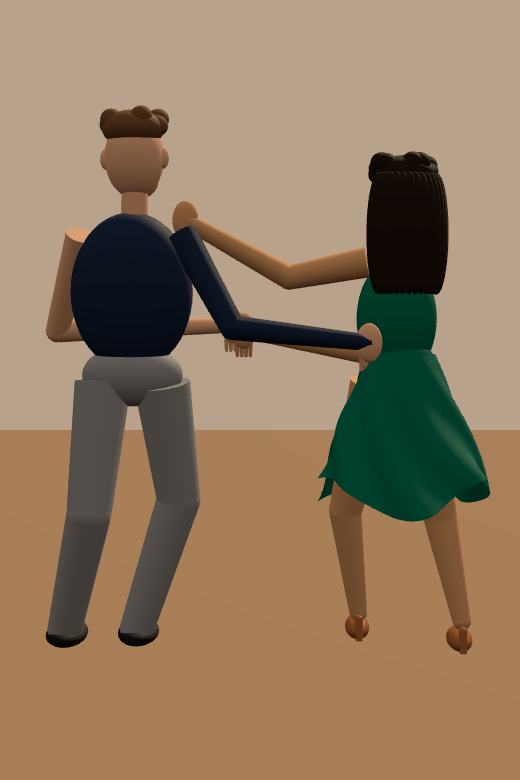
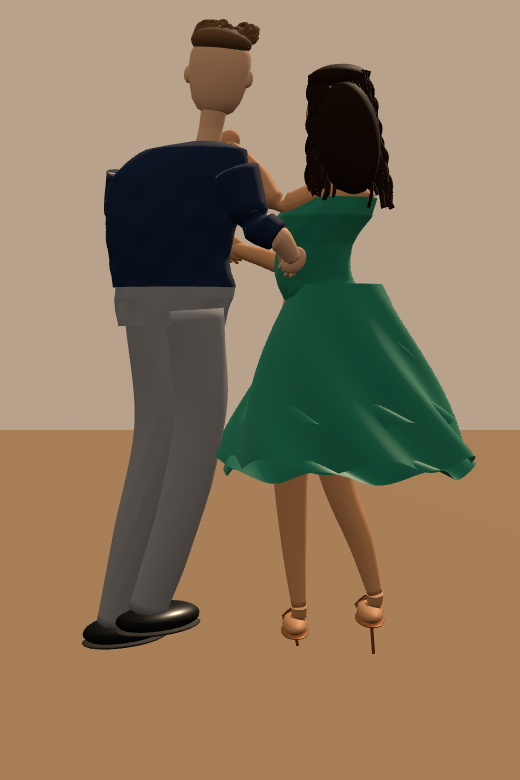
feat: refine salsa anatomy, clothing, hair and footwear with fixed-camera comparison

diff --git a/experiments/salsa-human-models/model.js b/experiments/salsa-human-models/model.js
@@ -1,41 +1,102 @@
 import * as THREE from '../../vendor/three.module.js';
-export const landmarks = {womanHead:[-.48,1.55,0],manHead:[.42,1.7,0],joinedHands:[.08,1.12,.36]};
-export const palette = {dress:0x00624e,shirt:0x18253e,trousers:0x85858a};
-// All surfaces are generated geometry; the reference is never mapped onto the models.
+import {referenceCamera} from './camera.js';
+export const palette={dress:0x00624e,shirt:0x18253e,trousers:0x85858a};
+const camera=new THREE.PerspectiveCamera(referenceCamera.fov,referenceCamera.aspect,referenceCamera.near,referenceCamera.far);
+camera.position.set(...referenceCamera.position);camera.lookAt(...referenceCamera.target);camera.updateMatrixWorld();
+// Measured reference landmarks set geometry placement, never camera or image pixels.
+function point(x,y,z=0){const ray=new THREE.Vector3(x*2-1,1-y*2,.5).unproject(camera).sub(camera.position).normalize();return camera.position.clone().addScaledVector(ray,(z-camera.position.z)/ray.z);}
+export const landmarks={womanHead:point(.347,.143).toArray(),manHead:point(.579,.096).toArray(),joinedHands:point(.576,.297,.27).toArray()};
 export function createCouple(){
- const root=new THREE.Group();root.name='Salsa couple';
- const material=(color,roughness=.65)=>new THREE.MeshStandardMaterial({color,roughness});
- const emerald=material(palette.dress,.4),navy=material(palette.shirt),gray=material(palette.trousers),black=material(0x161516),bronze=material(0x995b32,.3);
- function ellipsoid(name,p,s,m,parent=root){const o=new THREE.Mesh(new THREE.SphereGeometry(1,32,24),m);o.name=name;o.position.set(...p);o.scale.set(...s);o.castShadow=true;o.receiveShadow=true;parent.add(o);return o;}
- function limb(name,a,b,r1,r2,m){const start=new THREE.Vector3(...a),end=new THREE.Vector3(...b);const o=new THREE.Mesh(new THREE.CylinderGeometry(r2,r1,start.distanceTo(end),20),m);o.name=name;o.position.copy(start).add(end).multiplyScalar(.5);o.quaternion.setFromUnitVectors(new THREE.Vector3(0,1,0),end.sub(start).normalize());o.castShadow=true;root.add(o);ellipsoid(name+' joint',b,[r2,r2,r2],m);return o;}
- function hand(name,p,skin){ellipsoid(name,p,[.044,.065,.026],skin);for(let i=0;i<4;i++)limb(name+' finger '+i,[p[0]-.025+i*.016,p[1]-.035,p[2]+.01],[p[0]-.025+i*.016,p[1]-.09,p[2]+.025],.009,.007,skin);}
- function head(name,p,skin,hair,female){
-  const g=new THREE.Group();g.position.set(...p);root.add(g);g.rotation.y=female?.18:-.16;
-  ellipsoid(name+' face',[0,0,0],[.10,.137,.092],skin,g);
-  ellipsoid(name+' jaw',[0,-.075,.025],[.075,.063,.066],skin,g);
-  ellipsoid(name+' nose',[0,-.015,.094],[.018,.032,.023],skin,g);
-  for(const x of [-.098,.098])ellipsoid(name+' ear',[x,-.005,0],[.02,.035,.019],skin,g);
-  for(const x of [-.04,.04]){ellipsoid(name+' eye white',[x,.025,.081],[.026,.011,.012],material(0xeee2d3),g);ellipsoid(name+' iris',[x,.025,.091],[.011,.010,.005],material(0x39271b),g);ellipsoid(name+' pupil',[x,.025,.095],[.005,.006,.003],black,g);ellipsoid(name+' brow',[x,.049,.081],[.03,.006,.007],hair,g);}
-  ellipsoid(name+' lips',[0,-.062,.085],[.035,.009,.009],material(female?0x9b4243:0x95625a),g);
-  ellipsoid(name+' hair cap',[0,.092,-.015],[.105,.062,.089],hair,g);
-  for(let i=0;i<(female?18:12);i++){const a=i*2.399;ellipsoid(name+' hair lock',[Math.cos(a)*.082,.11+Math.sin(i*3)*.018,Math.sin(a)*.065],[.037,.035,.035],hair,g);}
-  if(female)for(let i=0;i<16;i++){const a=i/15*Math.PI;ellipsoid(name+' long hair',[Math.cos(a)*.10,-.11,-.05-Math.sin(a)*.055],[.039,.20,.04],hair,g);}
+ const root=new THREE.Group();root.name='Detailed static salsa couple';
+ const mat=(color,roughness=.65,extra={})=>new THREE.MeshPhysicalMaterial({color,roughness,...extra});
+ const ws=mat(0xc58c60,.55),ms=mat(0xd0a080,.56),emerald=mat(palette.dress,.43,{sheen:.8,sheenColor:new THREE.Color(0x5caa8a)}),navy=mat(palette.shirt,.76),gray=mat(palette.trousers,.82),black=mat(0x121313,.3),bronze=mat(0x9d5c30,.32,{metalness:.55}),hair=mat(0x20140d,.6),maleHair=mat(0x63462e,.6);
+ const vec=p=>p.isVector3?p.clone():new THREE.Vector3(...p);
+ function mesh(name,geometry,material,parent=root){const o=new THREE.Mesh(geometry,material);o.name=name;o.castShadow=true;o.receiveShadow=true;parent.add(o);return o;}
+ function oval(name,p,s,m,parent=root){const o=mesh(name,new THREE.SphereGeometry(1,24,16),m,parent);o.position.copy(vec(p));o.scale.set(...s);return o;}
+ function curve(name,points,r,m,parent=root){return mesh(name,new THREE.TubeGeometry(new THREE.CatmullRomCurve3(points.map(vec)),Math.max(12,points.length*5),r,6,false),m,parent);}
+ // Continuous elliptical rings replace intersecting cylinder/sphere limb joints.
+ function sweep(name,knots,m,depth=1,sides=28){
+  const path=new THREE.CatmullRomCurve3(knots.map(k=>vec(k[0]))),rows=(knots.length-1)*10,frames=path.computeFrenetFrames((knots.length-1)*10,false),vertices=[],indices=[];
+  for(let j=0;j<=rows;j++){const t=j/rows,c=path.getPoint(t);const u=t*(knots.length-1),i=Math.min(knots.length-2,Math.floor(u)),f=u-i,requestedRadius=THREE.MathUtils.lerp(knots[i][1],knots[i+1][1],f),before=Math.max(0,t-1/rows),after=Math.min(1,t+1/rows),turn=path.getTangent(before).angleTo(path.getTangent(after)),bendLimit=turn>1e-5?.5*path.getPoint(before).distanceTo(path.getPoint(after))/turn:Infinity,r=Math.min(requestedRadius,bendLimit);
+   for(let k=0;k<=sides;k++){const a=k/sides*Math.PI*2,fold=name.includes('trouser')?1+.018*Math.cos(a*8+t*22):1;const v=frames.normals[j].clone().multiplyScalar(Math.cos(a)*r*fold).addScaledVector(frames.binormals[j],-Math.sin(a)*r*depth).add(c);vertices.push(v.x,v.y,v.z);}}
+  for(let j=0;j<rows;j++)for(let k=0;k<sides;k++){const i=j*(sides+1)+k;indices.push(i,i+sides+1,i+1,i+1,i+sides+1,i+sides+2);}
+  // End caps are fans, not separate spheres with coplanar joint seams.
+  for(const j of [0,rows]){const c=path.getPoint(j/rows),center=vertices.length/3;vertices.push(c.x,c.y,c.z);for(let k=0;k<sides;k++){const i=j*(sides+1)+k;if(j===0)indices.push(center,i,i+1);else indices.push(center,i+1,i);}}
+  const g=new THREE.BufferGeometry();g.setAttribute('position',new THREE.Float32BufferAttribute(vertices,3));g.setIndex(indices);g.computeVertexNormals();const o=mesh(name,g,m);o.userData={surface:'sweep',rows,sides};return o;
  }
- const ws=material(0xc59065),ms=material(0xd3a080);
- head('Woman',landmarks.womanHead,ws,material(0x211710),true);head('Man',landmarks.manHead,ms,material(0x68472d),false);
- for(const [x,y,skin] of [[-.48,1.39,ws],[.42,1.54,ms]])limb('Neck',[x,y-.04,0],[x,y+.07,0],.045,.044,skin);
- ellipsoid('Navy shirt',[.43,1.25,-.015],[.205,.265,.115],navy);ellipsoid('Emerald bodice',[-.46,1.16,0],[.135,.205,.103],emerald);
- ellipsoid('Woman waist',[-.47,1.02,0],[.115,.09,.095],emerald);ellipsoid('Man hips',[.43,.97,0],[.17,.105,.10],gray);
- // A rippled asymmetric skirt retains a visible slit on the reference-facing side.
- const vertices=[],indices=[],rows=24,cols=80;
- for(let j=0;j<=rows;j++)for(let i=0;i<=cols;i++){const t=j/rows,a=.35+i/cols*(Math.PI*2-.7),r=.12+t*.18+Math.sin(a*8+t*9)*.018*t;vertices.push(-.47+Math.cos(a)*r,1.04-t*(.46+.06*Math.sin(a*3)),Math.sin(a)*r);}
- for(let j=0;j<rows;j++)for(let i=0;i<cols;i++){const k=j*(cols+1)+i;indices.push(k,k+cols+1,k+1,k+1,k+cols+1,k+cols+2);}
- const geo=new THREE.BufferGeometry();geo.setAttribute('position',new THREE.Float32BufferAttribute(vertices,3));geo.setIndex(indices);geo.computeVertexNormals();const dress=emerald.clone();dress.side=THREE.DoubleSide;const skirt=new THREE.Mesh(geo,dress);skirt.name='Rippled slit skirt';root.add(skirt);
- for(const [name,hip,knee,ankle,mat] of [
- ['Woman left',[-.53,.94,0],[-.62,.48,.06],[-.69,.13,.02],ws],['Woman right',[-.39,.94,.04],[-.30,.49,.15],[-.35,.12,.20],ws],
- ['Man left',[.33,.94,0],[.28,.54,.07],[.43,.08,.12],gray],['Man right',[.53,.94,0],[.57,.51,-.07],[.68,.08,.10],gray]]){const woman=name.startsWith('Woman');limb(name+' thigh',hip,knee,woman?.084:.095,woman?.058:.075,mat);limb(name+' shin',knee,ankle,woman?.058:.075,woman?.032:.06,mat);ellipsoid(name+' shoe',[ankle[0],.055,ankle[2]+.055],[woman?.043:.072,.04,woman?.10:.14],woman?bronze:black);if(woman)limb(name+' heel',[ankle[0],.025,ankle[2]-.04],[ankle[0],.10,ankle[2]-.03],.012,.015,bronze);}
- const arms=[['Woman joined',[-.56,1.34,.03],[-.39,1.04,.20],[.06,1.12,.35],ws],['Woman shoulder',[-.36,1.35,0],[-.10,1.30,.04],[.25,1.49,0],ws],['Man joined',[.60,1.44,0],[.71,1.12,.18],[.10,1.14,.37],ms],['Man back',[.26,1.44,-.03],[.09,1.13,-.12],[-.36,1.08,-.09],navy]];
- for(const [name,a,b,c,skin] of arms){limb(name+' upper arm',a,b,.052,.041,skin);limb(name+' forearm',b,c,.041,.027,skin);hand(name+' hand',c,skin===navy?ms:skin);}
- for(let i=0;i<5;i++)ellipsoid('Shirt button',[.42,1.08+i*.075,.102],[.008,.008,.005],gray);
- root.userData={landmarks,palette,static:true};return root;
+ function torso(name,anchors,m){const v=[],ix=[],sides=48,rings=[];const path=new THREE.CatmullRomCurve3(anchors.map(r=>r[0]));for(let j=0;j<=60;j++){const u=j/60*(anchors.length-1),i=Math.min(anchors.length-2,Math.floor(u)),f=u-i;rings.push([path.getPoint(j/60),THREE.MathUtils.lerp(anchors[i][1],anchors[i+1][1],f),THREE.MathUtils.lerp(anchors[i][2],anchors[i+1][2],f)]);}
+  for(const [c,rx,rz] of rings)for(let i=0;i<=sides;i++){const a=i/sides*Math.PI*2;const fold=1+.012*Math.sin(a*9+c.y*38)+.009*Math.sin(a*5-c.y*51);v.push(c.x+Math.cos(a)*rx*fold,c.y,c.z+Math.sin(a)*rz*fold);}
+  for(let j=0;j<rings.length-1;j++)for(let i=0;i<sides;i++){const k=j*(sides+1)+i;ix.push(k,k+sides+1,k+1,k+1,k+sides+1,k+sides+2);}
+  const g=new THREE.BufferGeometry();g.setAttribute('position',new THREE.Float32BufferAttribute(v,3));g.setIndex(ix);g.computeVertexNormals();const material=m.clone();material.side=THREE.DoubleSide;return mesh(name,g,material);
+ }
+ function head(name,p,skin,hairMaterial,female){
+  const g=new THREE.Group();g.name=name+' head';g.position.copy(p);g.rotation.set(0,female?.24:-.18,female?-.10:.12);root.add(g);
+  const rings=[[-.135,.025,.038],[-.117,.058,.060],[-.085,.079,.073],[-.04,.092,.083],[.01,.101,.086],[.06,.100,.084],[.105,.085,.071],[.13,.04,.04]];
+  const v=[],ix=[],sides=56;
+  for(const [y,rx,rz] of rings)for(let i=0;i<=sides;i++){const a=i/sides*Math.PI*2,cheek=1+.035*Math.cos(a*2);v.push(Math.cos(a)*rx*cheek,y,Math.sin(a)*rz);}
+  for(let j=0;j<rings.length-1;j++)for(let i=0;i<sides;i++){const k=j*(sides+1)+i;ix.push(k,k+sides+1,k+1,k+1,k+sides+1,k+sides+2);}
+  for(const row of [0,rings.length-1]){const index=v.length/3;v.push(0,rings[row][0],0);for(let i=0;i<sides;i++){const k=row*(sides+1)+i;if(row===0)ix.push(index,k,k+1);else ix.push(index,k+1,k);}}
+  const geo=new THREE.BufferGeometry();geo.setAttribute('position',new THREE.Float32BufferAttribute(v,3));geo.setIndex(ix);geo.computeVertexNormals();mesh(name+' shaped face',geo,skin,g);
+  oval(name+' nose bridge',[0,-.007,.085],[.014,.033,.015],skin,g);oval(name+' nose tip',[0,-.031,.103],[.018,.013,.017],skin,g);
+  for(const x of [-1,1]){oval(name+' nose wing',[x*.014,-.034,.097],[.011,.010,.012],skin,g);oval(name+' nostril',[x*.012,-.04,.105],[.005,.003,.004],mat(0x6b3d29),g);
+   oval(name+' ear',[x*.10,-.006,-.004],[.018,.030,.016],skin,g);oval(name+' ear concha',[x*.109,-.006,.008],[.006,.018,.006],mat(female?0x9c6245:0xa96e55),g);
+   const ex=x*.041;oval(name+' eye',[ex,.018,.078],[.023,.009,.011],mat(0xe4d4c1,.38),g);oval(name+' iris',[ex,.018,.088],[.009,.008,.004],mat(0x4a3321,.3),g);oval(name+' pupil',[ex,.018,.091],[.004,.005,.002],black,g);oval(name+' eye highlight',[ex-.003,.021,.093],[.002,.002,.001],mat(0xffffff,.1),g);
+   curve(name+' upper eyelid',[[ex-.024,.018,.079],[ex,.029,.086],[ex+.024,.018,.079]],.003,skin,g);curve(name+' eyebrow',[[ex-.026,.046,.078],[ex,.053,.082],[ex+.025,.046,.077]],female?.004:.005,hairMaterial,g);
+   if(female){curve(name+' gold earring',[[x*.105,-.026,.015],[x*.107,-.065,.016],[x*.097,-.071,.019]],.0025,bronze,g);}}
+  const lip=mat(female?0x9d4640:0xa06a59,.5);
+  curve(name+' smile upper',[[-.035,-.064,.070],[0,-.07,.085],[.035,-.057,.069]],.004,lip,g);
+  curve(name+' smile lower',[[-.032,-.066,.071],[0,-.079,.082],[.032,-.059,.07]],.004,lip,g);
+  oval(name+' visible teeth',[0,-.071,.080],[.025,.005,.003],mat(0xe7d8c2,.4),g);
+  oval(name+' scalp',[0,.104,-.017],[.103,.048,.081],hairMaterial,g);
+  if(female)oval(name+' back hair volume',[0,-.10,-.07],[.107,.19,.067],hairMaterial,g);
+  const count=female?70:60;
+  for(let i=0;i<count;i++){const a=i*2.39996,seed=(Math.sin(i*7.13)+1)/2;
+   if(female){const side=Math.cos(a),back=Math.sin(a);if(back>.55&&Math.abs(side)<.75)continue;const points=[];for(let j=0;j<8;j++){const t=j/7;points.push([side*(.085+t*.055)+Math.sin(t*15+i)*.013,.12-t*(.38+seed*.08),-.025-Math.abs(back)*.045+Math.sin(t*13+i)*.018]);}curve(name+' wavy hair lock '+i,points,i%3===0?.010:.006,hairMaterial,g);}
+   else{const x=Math.cos(a)*.087,z=Math.sin(a)*.062;curve(name+' curled quiff '+i,[[x,.105,z-.02],[x-.025,.13+seed*.033,z+.009],[x+.004,.139+seed*.025,z+.026],[x+.017,.11+seed*.013,z+.017]],.007,maleHair,g);}}
+ }
+ const wh=point(.347,.143),mh=point(.579,.096);head('Woman',wh,ws,hair,true);head('Man',mh,ms,maleHair,false);
+ sweep('Woman neck',[[point(.353,.239),.044],[point(.350,.190),.038],[point(.347,.165),.043]],ws,.9);
+ sweep('Man neck',[[point(.607,.218),.053],[point(.595,.167),.044],[point(.586,.133),.049]],ms,.9);
+ torso('Fitted navy shirt',[[point(.665,.369,-.015),.205,.095],[point(.672,.334,-.02),.20,.103],[point(.669,.287,-.02),.22,.115],[point(.650,.23,-.02),.235,.11],[point(.621,.195,-.02),.17,.085],[point(.605,.185,-.015),.06,.05]],navy);
+ torso('Woman upper torso',[[point(.367,.282,-.01),.125,.08],[point(.349,.251,-.01),.12,.075],[point(.349,.230,-.01),.075,.055]],ws);
+ torso('Emerald fitted bodice',[[point(.365,.39),.145,.09],[point(.395,.36),.13,.083],[point(.395,.315),.125,.09],[point(.376,.278),.16,.105],[point(.355,.255),.14,.09]],emerald);
+ oval('Woman upper shoulder',point(.327,.239,-.01),[.07,.065,.06],ws);
+ for(const [a,b,c] of [[point(.31,.223),point(.305,.25,.015),point(.333,.284,.09)],[point(.374,.235),point(.41,.269,.08),point(.435,.29,.095)]])curve('Dress shoulder strap',[a,b,c],.007,emerald);
+ const shirtSeam=mat(0x28374c,.8);
+ curve('Shirt front placket',[point(.616,.202,.10),point(.623,.28,.11),point(.626,.362,.092)],.008,shirtSeam);
+ for(let i=0;i<6;i++)oval('Shirt button',point(.627,.235+i*.023,.116),[.004,.004,.002],mat(0xb9ad95));
+ function patch(name,points,m){const shape=new THREE.Shape(points.map(p=>new THREE.Vector2(p[0],p[1])));const o=mesh(name,new THREE.ShapeGeometry(shape),m);return o;}
+ for(const side of [-1,1]){const c=point(.605+side*.033,.196,.10);const collar=patch('Pointed shirt collar',[[-.055,.03],[.045,0],[.02,-.095],[-.028,-.025]],navy);collar.position.copy(c);collar.rotation.z=side*.5;}
+ // Smooth anatomical leg profiles and contiguous trouser volumes.
+ const legs=[
+ ['Woman back',[[.335,.39,.00,.09],[.359,.59,.025,.07],[.300,.705,.04,.048],[.275,.767,.04,.029]],ws],
+ ['Woman front',[[.405,.385,.10,.095],[.437,.585,.13,.075],[.430,.718,.15,.05],[.420,.802,.15,.029]],ws],
+ ['Man back trouser',[[.626,.397,-.035,.102],[.615,.526,-.015,.089],[.656,.66,-.01,.077],[.719,.786,.01,.065]],gray],
+ ['Man front trouser',[[.711,.399,.025,.105],[.698,.546,.03,.093],[.746,.69,.04,.082],[.790,.811,.065,.067]],gray]];
+ torso('Trouser pelvis',[[point(.672,.418),.18,.095],[point(.665,.382),.20,.097],[point(.664,.365),.20,.096]],gray);
+ for(const [name,points,m] of legs){sweep(name,points.map(([x,y,z,r])=>[point(x,y,z),r]),m,.88);const last=points.at(-1),p=point(last[0],last[1],last[2]);
+  if(name.startsWith('Man')){const shoe=oval(name+' leather derby',p.clone().add(new THREE.Vector3(-.035,-.030,.058)),[.11,.048,.18],black);shoe.rotation.y=-.65;const sole=oval(name+' layered sole',p.clone().add(new THREE.Vector3(-.035,-.062,.058)),[.113,.014,.183],mat(0x24201d));sole.rotation.y=-.65;
+   for(let i=0;i<5;i++)curve(name+' lace '+i,[p.clone().add(new THREE.Vector3(-.035,-.005,.03+i*.015)),p.clone().add(new THREE.Vector3(.015,-.008,.04+i*.015))],.0025,mat(0x5a534b));
+   const seam=points.map(([x,y,z])=>point(x+.025,y,z+.055));curve(name+' outer seam',seam,.0016,mat(0x676669));
+  }else{const foot=p.clone().add(new THREE.Vector3(.012,-.075,.060));sweep(name+' ankle',[[p,.029],[p.clone().add(new THREE.Vector3(0,-.04,.015)),.026],[foot,.026]],ws,.9);oval(name+' foot',foot,[.044,.033,.13],ws);oval(name+' sandal sole',foot.clone().add(new THREE.Vector3(0,-.028,.01)),[.05,.009,.14],bronze);curve(name+' stiletto heel',[foot.clone().add(new THREE.Vector3(0,-.025,-.065)),new THREE.Vector3(foot.x-.008,.012,foot.z-.064)],.006,bronze);
+   for(const dz of [-.035,.045,.085])curve(name+' sandal strap',[foot.clone().add(new THREE.Vector3(-.043,0,dz)),foot.clone().add(new THREE.Vector3(0,.035,dz+.012)),foot.clone().add(new THREE.Vector3(.043,0,dz+.024))],.004,bronze);
+   for(let i=0;i<5;i++)oval(name+' toe '+i,foot.clone().add(new THREE.Vector3(-.027+i*.014,-.002,.118-i*.004)),[.008,.012,.019],ws);
+  }}
+ // Overlapping ruffle panels are real double-sided surfaces around the body.
+ function skirt(name,top,bottom,spread,phase){const vertices=[],indices=[],rows=24,cols=96;
+  for(let j=0;j<=rows;j++)for(let i=0;i<=cols;i++){const t=j/rows,a=1.20+i/cols*(Math.PI*2-.70),wave=Math.sin(a*7+t*8+phase),r=.15+t*spread+wave*.020*t;const center=point(.351-.015*t,top+(bottom-top)*t,-.01);vertices.push(center.x+Math.cos(a)*r,center.y+.023*wave*t,center.z+Math.sin(a)*r*.68);}
+  for(let j=0;j<rows;j++)for(let i=0;i<cols;i++){const k=j*(cols+1)+i;indices.push(k,k+cols+1,k+1,k+1,k+cols+1,k+cols+2);}const g=new THREE.BufferGeometry();g.setAttribute('position',new THREE.Float32BufferAttribute(vertices,3));g.setIndex(indices);g.computeVertexNormals();const silk=emerald.clone();silk.side=THREE.DoubleSide;mesh(name,g,silk);}
+ skirt('Silk skirt body',.365,.588,.28,0);skirt('Upper cascading ruffle',.385,.477,.10,1);skirt('Middle cascading ruffle',.445,.544,.20,2);skirt('Lower cascading ruffle',.510,.601,.27,3);
+ const arms=[
+ ['Woman joined',[[.327,.239,.05,.061],[.359,.283,.09,.055],[.420,.333,.16,.044],[.500,.318,.23,.034],[.558,.304,.27,.025]],ws],
+ ['Woman shoulder',[[.389,.253,-.03,.053],[.462,.265,-.02,.046],[.508,.219,.005,.035],[.563,.182,.015,.024]],ws],
+ ['Man joined',[[.748,.224,.015,.080],[.767,.278,.06,.063],[.758,.309,.13,.050],[.735,.322,.17,.043],[.673,.315,.22,.041],[.593,.301,.27,.029]],ms],
+ ['Man back',[[.543,.229,-.09,.074],[.513,.289,-.11,.063],[.468,.310,-.12,.048],[.438,.337,-.09,.030]],ms]];
+ function hand(name,p,skin,angle){const g=new THREE.Group();g.position.copy(p);g.rotation.z=angle;root.add(g);oval(name+' palm',[0,0,0],[.038,.048,.023],skin,g);
+  for(let i=0;i<4;i++){const x=-.026+i*.016,len=.043+(i===1?.012:0);curve(name+' bent finger '+i,[[x,-.025,.005],[x,-.045,.020],[x,-len,.04],[x,-len+.01,.052]],.007,skin,g);oval(name+' fingernail '+i,[x,-len+.008,.057],[.005,.007,.0015],mat(0xd8af90),g);}
+  curve(name+' thumb',[[.028,.007,.013],[.046,-.01,.032],[.032,-.027,.049]],.009,skin,g);}
+ for(const [name,pts,skin] of arms){sweep(name+' arm',pts.map(([x,y,z,r])=>[point(x,y,z),r]),skin,.9);hand(name,point(...pts.at(-1).slice(0,3)),skin,name==='Woman joined'?-.7:.65);
+  if(name.startsWith('Man')){const portion=pts.slice(0,3).map(([x,y,z,r])=>[point(x,y,z),r+.006]);sweep(name+' rolled sleeve',portion,navy,.95);}}
+ for(let i=0;i<6;i++){const y=.27+i*.013;curve('Bodice fabric gathering '+i,[point(.335,y,.073),point(.387,y+.01,.101),point(.435,y-.004,.071)],.0018,mat(0x085b49));}
+ root.userData={landmarks,palette,static:true,revision:'continuous-anatomy-and-clothing-v2'};return root;
 }

diff --git a/experiments/salsa-human-models/README.md b/experiments/salsa-human-models/README.md
@@ -84,3 +84,13 @@ python3 -m venv /tmp/salsa-image-comparison
 ```
 
 A below-threshold result intentionally returns exit code 1. Blank, malformed, absent or wrong-size inputs also fail; they write error JSON and Summary when the output directory is writable. If capture or audit itself fails, there is no valid new snapshot to publish.
+
+## Detailed geometry checkpoint
+
+The second model iteration adds continuous curved limbs and trouser profiles, fitted cloth surfaces with fine folds, shaped faces and facial features, curved wavy/curl hair strands, dress ruffles and straps, shirt collars/buttons/placket, bent fingers with nails, and detailed shoes/sandals. These are mesh surfaces, not image textures. Frenet frames prevent ring twisting; bend-radius limits prevent inside-out elbow surfaces. Every interior sweep ring is checked for outward normals, and every transformed vertex is checked against the frozen capture camera.
+
+Geometry positions are inferred from manually measured reference image coordinates at selected depths. Those coordinates are unprojected through the **unchanged** camera. The separate manual landmark report now largely reports construction targets; it must not be presented as independent accuracy validation. The actual source/render pixel comparison remains independent of those target constants.
+
+The revised model occupies about2.18 world units vertically versus the original prototype's roughly1.85, matching more of the source frame. The old arbitrary `<2` geometry bound was replaced by `<2.3` plus a stricter actual-vertex no-clipping test; camera parameters were not changed. Lighting, reference image, metric weights, regions and threshold are unchanged.
+
+Known limitations: stylized facial anatomy and hair, imperfect clothing joins and silhouette, inferred depth/back surfaces, and plain studio background. This iteration is not a finished realistic reconstruction. The three-view golden-render baseline and review PNGs were intentionally refreshed after visual inspection; the reference-comparison test itself is unchanged.

diff --git a/.agentic/tasks/salsa-human-models/plan.md b/.agentic/tasks/salsa-human-models/plan.md
@@ -44,3 +44,9 @@ One reference cannot reveal occluded anatomy or back surfaces. These must be inf
 - Reports: source/render/difference triptych, differencePNG, metricsJSON with hashes/camera and Markdown summary. One-day artifact uploads even after compare failure; original snapshot already uploaded independently.
 
 - Review follow-up: full-frame-only score could exceed80% after erasing one test subject (80.18%). Added fixed full/left/right regions, using the minimum component score and the same80 threshold. No image alignment, trained detector, hand-tuned subject mask or weight change. Regression test now asserts missing-subject failure. Metric remains spatial/technical and cannot guarantee semantic completeness.
+
+## Detail iteration after user request
+- Added continuous swept limb/leg geometry, rotation-minimizing transported frames, curvature-limited radius, fitted torso/cloth surfaces, shaped capped faces, detailed facial features, curved hair, skirt layers, bent fingers/nails and footwear details.
+- Reference placement uses measured image-coordinate landmarks at inferred depths through unchanged camera. The landmark-offset report is therefore a construction diagnostic, not independent validation. Actual image-comparison algorithm/weights/regions/reference/camera/lighting remain unchanged.
+- Independent review found false-positive AABB framing check and7 locally inverted normals in tight bends. Replaced AABB check with projection of every actual world vertex; transport and bend-radius fixes are covered across every interior ring/side. Detailed-geometry check also added to Actions after snapshot publication, preserving artifact on subsequent failure.
+- Browser front/side/rear inspection, mobile layout and GLB export rerun. Review PNGs and golden coarse-render baseline deliberately refreshed for this geometry; provenance hashes updated. Source similarity gate remains fixed80 and is expected to fail until reconstruction improves further.
